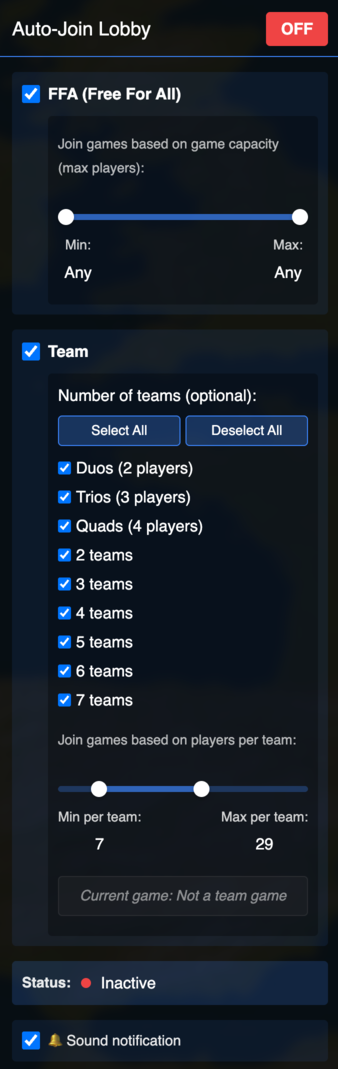
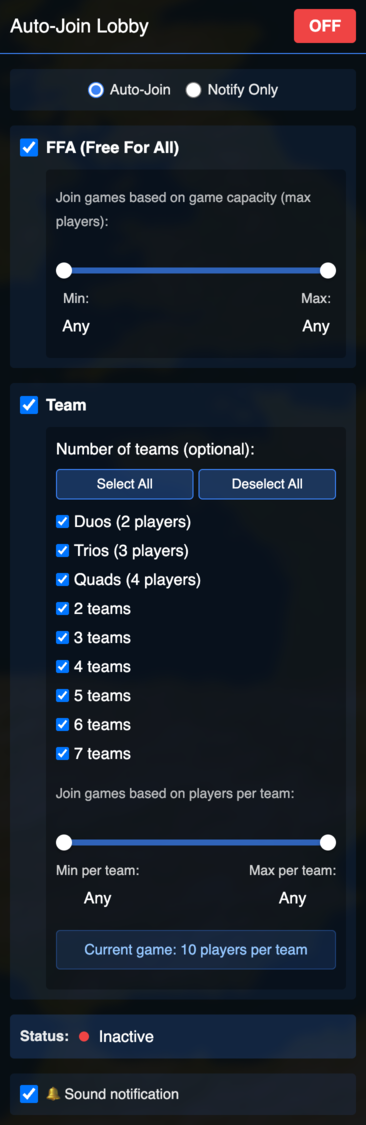
Fix

Changed region(s): [[0.0, 0.0, 1.0, 0.8644], [0.0296, 0.8952, 0.5325, 0.9878], [0.9467, 0.2778, 0.9763, 0.3087]]

diff --git a/README.md b/README.md
@@ -1,6 +1,6 @@
 # OpenFrontIO Auto-Join Lobby
 
-A Tampermonkey/Greasemonkey userscript that automatically joins lobbies on OpenFront.io based on your game mode preferences and game capacity filters.
+A Tampermonkey/Greasemonkey userscript that automatically joins lobbies on OpenFront.io based on your game mode preferences and game capacity filters. Includes a "Notify Only" mode that alerts you when matching games are found without automatically joining.
 
 ![Auto-Join Lobby Panel](autojoin-lobby.png)
 
@@ -35,21 +35,31 @@ Tested and 100% functional against OpenFront v0.26.16
   - Filters can be set independently for FFA and Team modes
   - If capacity information is unavailable, the filter is bypassed (allows join)
 
+- **Join Modes**
+  - **Auto-Join Mode** (default): Automatically joins matching lobbies when found
+  - **Notify Only Mode**: Displays a notification banner when matching games are found without automatically joining
+    - Notification shows game details (mode, team configuration, player capacity)
+    - Auto-dismisses after 10 seconds or can be clicked to dismiss manually
+    - Prevents duplicate notifications for the same lobby
+    - Useful for manually reviewing games before joining
+
 - **Smart Auto-Join**
   - Automatically disables when returning to lobby (prevents immediate rejoin)
   - Permanently blocks auto-rejoin of recently left lobbies (only clears when joining a different lobby)
   - Visual feedback with search timer
-  - Status indicators (Active/Inactive/Joined)
+  - Status indicators (Active/Inactive/Joined/Searching)
   - Sound notification when a matching game is found (can be toggled on/off)
 
 - **User Interface**
+  - Join mode selector (Auto-Join / Notify Only) with radio buttons
   - Draggable panel (position is saved)
   - Toggle ON/OFF button
   - Visual range sliders for capacity filtering with live value display
   - Real-time search timer display
   - Current game info display showing players per team for team games
+  - Prominent notification banner (in Notify Only mode) with game details
   - Sound notification toggle (🔔 Sound notification checkbox)
-  - Settings persistence across page reloads
+  - Settings persistence across page reloads (including join mode preference)
   - Clean, modern dark theme UI
 
 ## Installation
@@ -82,16 +92,21 @@ Tested and 100% functional against OpenFront v0.26.16
 
 ### Basic Setup
 
-1. **Select Game Mode(s)**
+1. **Choose Join Mode**
+   - Select **"Auto-Join"** (default) to automatically join matching lobbies when found
+   - Select **"Notify Only"** to receive notifications when matching games are found without automatically joining
+   - Your mode preference is saved and restored on page reload
+
+2. **Select Game Mode(s)**
    - Check the "FFA (Free For All)" checkbox to enable FFA auto-join
    - Check the "Team" checkbox to enable Team mode auto-join
 
-2. **Configure Team Counts (Optional)**
+3. **Configure Team Counts (Optional)**
    - If Team mode is selected, you can optionally specify which team configurations to join
    - Use "Select All" / "Deselect All" buttons for quick selection
    - If no team counts are selected, the script will join any Team mode lobby
 
-3. **Set Game Capacity Filters (Optional)**
+4. **Set Game Capacity Filters (Optional)**
    - **For FFA Mode**: Use the visual range sliders to set minimum and maximum total game capacity
      - Drag the sliders to adjust the range (1-100 players)
      - The displayed values show "Any" when set to the full range (min: 1, max: 100)
@@ -102,31 +117,36 @@ Tested and 100% functional against OpenFront v0.26.16
    - Only games matching your selected range will be joined
    - If you set both sliders to the full range (Any/Any), all matching game modes will be joined
 
-4. **Configure Sound Notification (Optional)**
+5. **Configure Sound Notification (Optional)**
    - Check/uncheck the "🔔 Sound notification" checkbox to enable/disable sound alerts
    - When enabled, a pleasant chime sound plays when a matching game is found
    - Sound setting is saved and persists across page reloads
 
-5. **Enable Auto-Join**
+6. **Enable Auto-Join / Notify**
    - Click the "OFF" button to toggle it to "ON"
    - The script will start searching for matching lobbies
    - A search timer will display how long you've been searching
+   - **In Auto-Join mode**: The script will automatically join when a match is found
+   - **In Notify Only mode**: A notification banner will appear at the top of the screen when a match is found
    - If sound notification is enabled, you'll hear a chime when a match is found
 
 ### Status Indicators
 
-- **Red indicator**: Auto-join is OFF (Inactive)
-- **Green pulsing indicator**: Auto-join is ON (Active/Searching)
-- **Status text**: Shows "Inactive", "Active", or "Joined"
-- **Search timer**: Displays search duration or time when game was found
+- **Red indicator**: Auto-join/Notify is OFF (Inactive)
+- **Green pulsing indicator**: Auto-join/Notify is ON (Active/Searching)
+- **Status text**: Shows "Inactive", "Active", "Searching" (in Notify mode), or "Joined" (in Auto-Join mode)
+- **Search timer**: Displays search duration or "Game found!" message when a match is found
+- **Notification banner** (Notify Only mode): Appears at the top center of the screen showing game details when a match is found
 - **Current game info**: For Team mode, displays "X players per team" for the currently shown lobby (only visible on lobby page)
 
 ### Panel Controls
 
+- **Join Mode Selector**: Choose between "Auto-Join" and "Notify Only" modes using the radio buttons
 - **Drag**: Click and drag the header to move the panel around
-- **Toggle**: Click the ON/OFF button to enable/disable auto-join
+- **Toggle**: Click the ON/OFF button to enable/disable auto-join/notify
 - **Sound Toggle**: Check/uncheck the sound notification checkbox to enable/disable audio alerts
-- **Settings**: All settings (game modes, filters, sound preference) are automatically saved and restored on page reload
+- **Notification Banner** (Notify Only mode): Click the notification to dismiss it manually, or wait for it to auto-dismiss after 10 seconds
+- **Settings**: All settings (join mode, game modes, filters, sound preference) are automatically saved and restored on page reload
 
 ## Configuration
 
@@ -145,9 +165,10 @@ These can be modified in the script's `CONFIG` object if needed.
 - **Auto-disable on lobby return**: When you return to the lobby, auto-join automatically turns OFF (prevents immediate rejoin)
 - **Auto-restart on lobby leave**: When you leave a lobby (via leave-lobby event), auto-join restarts searching if it was enabled
 - **Permanent block on recently left lobby**: Once you leave a lobby, it is permanently blocked from auto-rejoin. The block is only cleared when you join a different lobby
-- **Always starts OFF**: Auto-join always starts in the OFF state, even if it was enabled when you last visited
-- **Settings persistence**: Your game mode preferences, capacity filters, and sound preference are saved and restored
+- **Always starts OFF**: Auto-join/Notify always starts in the OFF state, even if it was enabled when you last visited
+- **Settings persistence**: Your join mode preference, game mode preferences, capacity filters, and sound preference are saved and restored
 - **Panel position**: The panel's position is saved and restored
+- **Notification behavior**: In Notify Only mode, notifications are automatically dismissed when entering a game or returning to lobby
 
 ## Technical Details
 
@@ -160,8 +181,10 @@ These can be modified in the script's `CONFIG` object if needed.
 - **URL Detection**: Uses URL-based detection to determine game state (lobby vs. in-game)
 - **Polling**: Checks for matching lobbies every 1 second when enabled
 - **Sound Notification**: Uses Web Audio API to generate a pleasant three-tone chime when a match is found
+- **Notification System**: In Notify Only mode, displays a prominent banner notification with game details, auto-dismisses after 10 seconds, and tracks notified lobbies to prevent duplicates
 - **UI Components**: Uses HTML5 range sliders with visual track fill for capacity selection
 - **Game Info Display**: Real-time display of players per team for team games, updating every second
+- **Mode Management**: Join mode preference (`autojoin` or `notify`) is stored and restored with other settings
 
 ## Version
 
